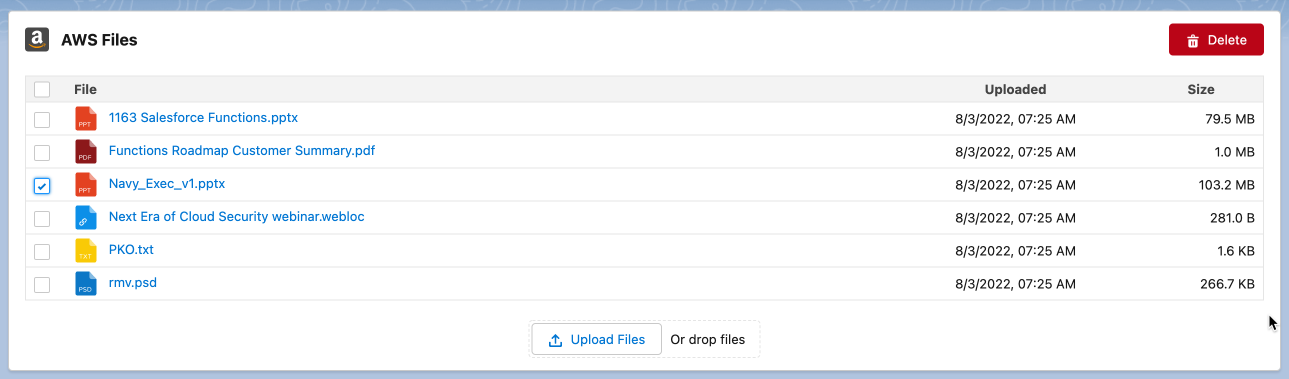
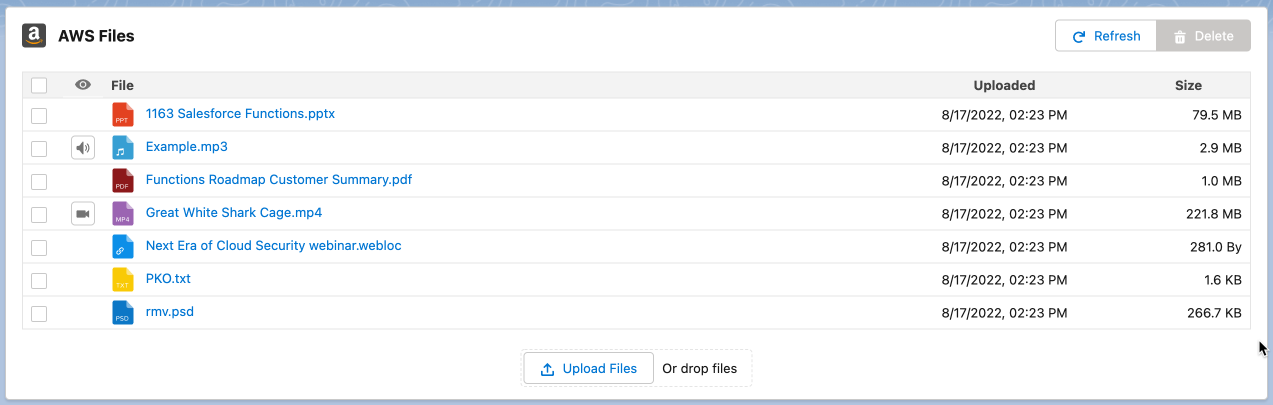
Version 2.1.0: Added video and audio playback

Changed region(s): [[0.0, 0.0, 1.0, 0.9868], [0.7353, 0.2032, 0.8578, 0.7836]]

diff --git a/force-app/main/default/lwc/awsS3Files/awsS3Files.html b/force-app/main/default/lwc/awsS3Files/awsS3Files.html
@@ -189,24 +189,14 @@
 										<template if:false={hideViewAndTranscription}>
 											<td width="8rem">
 												<template if:true={file.fileIsTranscribable}>
-													<lightning-button-group>
-														<lightning-button-icon
-															type="button"
-															icon-name="utility:display_text"
-															size="small"
-															alternative-text="View a transcript of the file"
-															data-key={file.key}
-															onclick={handleDisplayTranscription}
-														></lightning-button-icon>
-														<lightning-button-icon
-															type="button"
-															icon-name={file.viewIcon}
-															size="small"
-															alternative-text="Preview the file"
-															data-key={file.key}
-															onclick={handleViewFile}
-														></lightning-button-icon>
-													</lightning-button-group>
+													<lightning-button-icon
+														type="button"
+														icon-name={file.viewIcon}
+														size="small"
+														alternative-text="Preview the file"
+														data-key={file.key}
+														onclick={handleViewFile}
+													></lightning-button-icon>
 												</template>
 											</td>
 										</template>
@@ -501,10 +491,10 @@
 						<section class="slds-modal__content slds-p-around_medium">
 							<div class="slds-align_absolute-center">
 								<template if:true={fileBeingViewedIsVideo}>
-									<video src={fileBeingViewed} controls preload="metadata" width="640px"></video>
+									<video src={fileBeingViewedUrl} controls preload="metadata" width="640px"></video>
 								</template>
 								<template if:true={fileBeingViewedIsAudio}>
-									<audio src={fileBeingViewed} controls preload="metadata"></audio>
+									<audio src={fileBeingViewedUrl} controls preload="metadata"></audio>
 								</template>
 							</div>
 						</section>

diff --git a/force-app/main/default/lwc/awsS3Files/awsS3Files.js b/force-app/main/default/lwc/awsS3Files/awsS3Files.js
@@ -68,7 +68,7 @@ export default class AwsS3Files extends LightningElement {
 	}
 
 	viewModalVisible = false;
-	fileBeingViewed = null;
+	fileBeingViewedUrl = null;
 	fileBeingViewedIsVideo = false;
 	fileBeingViewedIsAudio = false;
 	fileNameBeingViewed = '';
@@ -285,22 +285,25 @@ export default class AwsS3Files extends LightningElement {
 	}
 
 	handleDisplayTranscription(event) {
-		let file = this.fileList.find((file) => file.key === event.target.getAttribute('data-key'));
+		const file = this.fileList.find((file) => file.key === event.target.getAttribute('data-key'));
 	}
 
 	handleViewFile(event) {
-		let file = this.fileList.find((file) => file.key === event.target.getAttribute('data-key'));
-		this.fileBeingViewed = file.link;
+		const file = this.fileList.find((file) => file.key === event.target.getAttribute('data-key'));
+		this.fileBeingViewedUrl = file.link;
 		this.fileNameBeingViewed = file.name;
 		this.fileBeingViewedIsVideo = file.videoFile;
 		this.fileBeingViewedIsAudio = file.audioFile;
-		this.fileBeingViewedIcon = file.videoFile ? 'utility:video' : 'utility:volume_high';
+		this.fileBeingViewedIcon = file.viewIcon;
 		this.viewModalVisible = true;
 	}
 
 	handleViewModalDoneButton(event) {
-		this.fileBeingViewed = null;
+		this.fileBeingViewedUrl = null;
 		this.fileNameBeingViewed = '';
+		this.fileBeingViewedIsVideo = false;
+		this.fileBeingViewedIsAudio = false;
+		this.fileBeingViewedIcon = null;
 		this.viewModalVisible = false;
 	}
 }

diff --git a/README.md b/README.md
@@ -90,6 +90,16 @@ To upload a file or set of files, click the `Upload Files` button or drag the fi
 
 ![Upload](images/Upload.png)
 
+## Media File Playback
+
+If a file is a video file, a button will appear on the left of the file list that will bring up a modal allowing the user to view the video file:
+
+![Video Playback](images/Video_Playback.png)
+
+If the file is an audio file, the user can push the audio button to listen to the audio:
+
+![Audio Playback](images/Audio_Playback.png)
+
 ## Caveats and Known Limitations
 
 - The authentication information (access key Id and secret access key) are entered in the configuration metadata for easy entry by Salesforce solution engineers using Lightning App Builder to demo this capability. A customer would never expose this sensitive information in a production environment, preferring to store this information in a named credential or by authenticating to AWS using SSO or some other more sophisticated mechanism. We leave such an implementation to the customer or to the customer's systems integrator and hope that the rest of this code can be useful to that effort.
